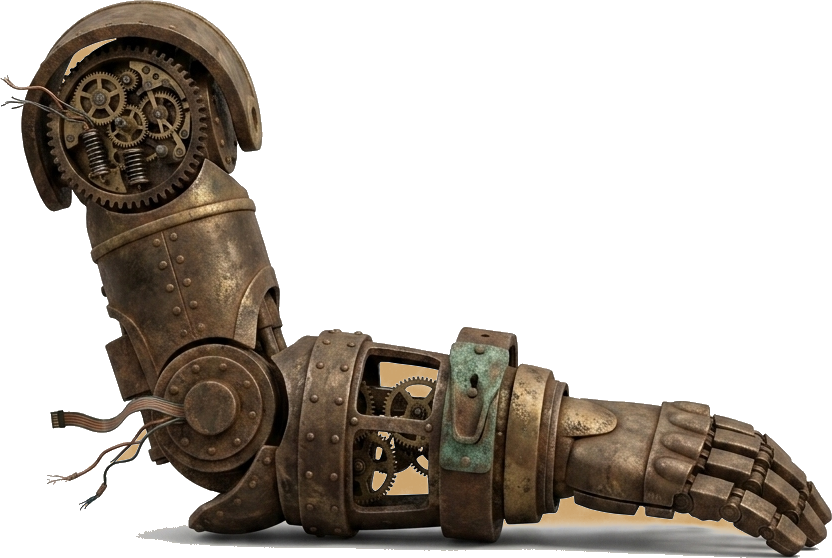
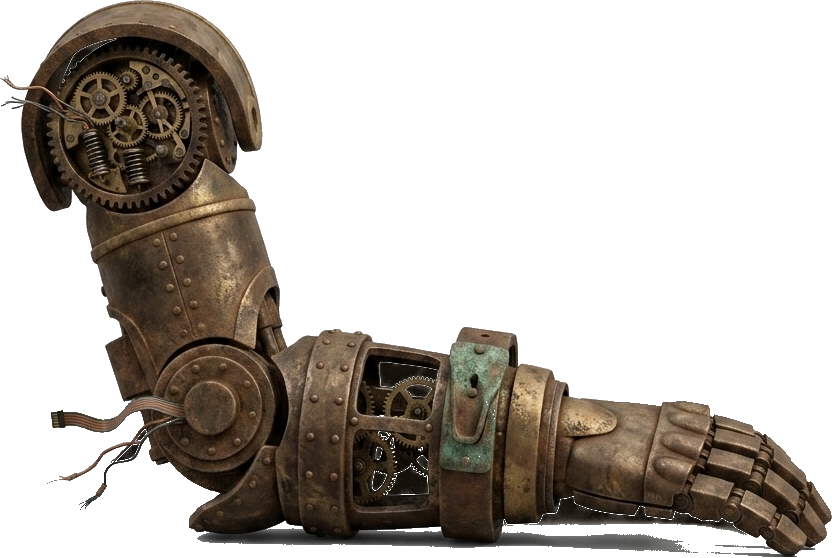
## Black Spots + Burn-Down + Alert Robot + Heist Timing Complete (all verified live) - White/tan spots now truly gone — bright speckles mapped to black on the rack robot and floor arm - Furnace blast burns down gradually: belly glow fades, rumble stops, and 9 embers rest on the floor flickering out 

diff --git a/frontend/src/components/scenes/AmbianceScene.jsx b/frontend/src/components/scenes/AmbianceScene.jsx
@@ -438,7 +438,7 @@ function useFurnaceCrackle(enabled) {
  * stream of fire, sparks and embers spews from his belly grate.
  * Desktop-only (he's hidden on mobile); `ff:furnace-blast` forces it. */
 function useFurnaceBlast(enabled) {
-  const [ph, setPh] = useState(0); // 0 idle, 1 gears grinding (glow surges), 2 fire spews
+  const [ph, setPh] = useState(0); // 0 idle, 1 gears grinding (glow surges), 2 fire spews, 3 burning down (embers cool on the floor)
   const witnessRef = useHeistWitness("furnace");
   useEffect(() => {
     if (!enabled) return undefined;
@@ -447,7 +447,13 @@ function useFurnaceBlast(enabled) {
     let timers = [];
     let pending;
     const schedule = (min, spread) => { pending = setTimeout(run, min + Math.random() * spread); };
-    const run = () => {
+    const run = (forced = false) => {
+      // HEIST TRAFFIC CONTROL: never start while fate is shuffling/revealing or
+      // another heist holds the floor (medallion heists scroll the page to the
+      // logo — colliding with a golem show means the user misses both).
+      if (!forced && (window.__ffFateBusy || Date.now() < (window.__ffHeistCooldownUntil || 0))) { schedule(25000, 20000); return; }
+      // Reserve the stage: blast runs 7.4s + a breather before the next act.
+      window.__ffHeistCooldownUntil = Math.max(window.__ffHeistCooldownUntil || 0, Date.now() + 20000);
       timers.forEach(clearTimeout); timers = [];
       setPh(1);
       playHeistSound("/golem-gears.mp3", 0.5);
@@ -455,10 +461,11 @@ function useFurnaceBlast(enabled) {
         setPh(2);
         playHeistSound("/golem-fire-blast.mp3", 0.55);
       }, 2000));
-      timers.push(setTimeout(() => { setPh(0); witnessRef.current(true); schedule(200000, 160000); }, 5200));
+      timers.push(setTimeout(() => setPh(3), 5200));            // fire burns down; embers glow on the floor
+      timers.push(setTimeout(() => { setPh(0); witnessRef.current(true); schedule(200000, 160000); }, 7400));
     };
     schedule(70000, 60000);
-    const force = () => { clearTimeout(pending); run(); };
+    const force = () => { clearTimeout(pending); run(true); };
     window.addEventListener("ff:furnace-blast", force);
     return () => { clearTimeout(pending); timers.forEach(clearTimeout); window.removeEventListener("ff:furnace-blast", force); };
   }, [enabled]);
@@ -478,7 +485,12 @@ function useGolemWake(enabled) {
     let timers = [];
     let pending;
     const schedule = (min, spread) => { pending = setTimeout(run, min + Math.random() * spread); };
-    const run = () => {
+    const run = (forced = false) => {
+      // HEIST TRAFFIC CONTROL: defer if fate is busy or another heist has the
+      // floor, and reserve the stage for the full 10.9s show + a breather so
+      // medallion heists can't scroll the page away mid-awakening.
+      if (!forced && (window.__ffFateBusy || Date.now() < (window.__ffHeistCooldownUntil || 0))) { schedule(25000, 20000); return; }
+      window.__ffHeistCooldownUntil = Math.max(window.__ffHeistCooldownUntil || 0, Date.now() + 25000);
       timers.forEach(clearTimeout); timers = [];
       setPh(1);                                                  // rumble + head raises, eyes ignite
       playHeistSound("/golem-wake-up.mp3", 0.5);
@@ -502,7 +514,7 @@ function useGolemWake(enabled) {
       timers.push(setTimeout(() => { setPh(0); witnessRef.current(true); schedule(180000, 150000); }, 10900));
     };
     schedule(45000, 40000);
-    const force = () => { clearTimeout(pending); run(); };
+    const force = () => { clearTimeout(pending); run(true); };
     window.addEventListener("ff:golem-wake", force);
     return () => { clearTimeout(pending); timers.forEach(clearTimeout); window.removeEventListener("ff:golem-wake", force); };
   }, [enabled]);
@@ -512,6 +524,8 @@ function useGolemWake(enabled) {
 export function AmbianceScene({ theme, cfg, heistEpoch = 0 }) {
   const golemWake = useGolemWake(!!cfg.golemRight);
   const blastPh = useFurnaceBlast(!!cfg.golemLeft);
+  // any golem event running → the strapped rack robot powers up in response
+  const workshopEvent = (golemWake >= 1 && golemWake <= 5) || blastPh >= 1;
   useFurnaceCrackle(!!cfg.golemLeft);
   const [mobile, setMobile] = useState(false);
   const [abducting, setAbducting] = useState(false);
@@ -729,10 +743,10 @@ export function AmbianceScene({ theme, cfg, heistEpoch = 0 }) {
         <div className="absolute bottom-0 left-[-10%] z-[4] hidden h-[72vh] sm:left-[-3%] sm:block sm:h-[78vh]" style={{ aspectRatio: "684 / 1222" }} data-testid="steam-golem-left">
           {/* soft ground shadow so the sleeping sentinel sits on the floor */}
           <div className="absolute left-1/2 -translate-x-1/2" style={{ bottom: "-0.6vh", width: "88%", height: "3.6vh", background: "radial-gradient(ellipse, rgba(0,0,0,0.7), rgba(0,0,0,0) 68%)" }} />
-          <img src={cfg.golemLeft} alt="" className="absolute inset-0 h-full w-full object-contain" style={{ filter: "drop-shadow(0 6px 10px rgba(0,0,0,0.55)) brightness(0.92)", animation: blastPh >= 1 ? "ffGolemRumble 0.5s linear infinite" : undefined }} />
+          <img src={cfg.golemLeft} alt="" className="absolute inset-0 h-full w-full object-contain" style={{ filter: "drop-shadow(0 6px 10px rgba(0,0,0,0.55)) brightness(0.92)", animation: blastPh >= 1 && blastPh < 3 ? "ffGolemRumble 0.5s linear infinite" : undefined }} />
           {/* FURNACE BLAST: glow surge while the gears grind, then fire spews */}
           {blastPh >= 1 && (
-            <div className="absolute" style={{ left: "52%", top: "36%", width: "29%", height: "16.5%" }} data-testid="furnace-blast-surge">
+            <div className="absolute" style={{ left: "52%", top: "36%", width: "29%", height: "16.5%", opacity: blastPh === 3 ? 0 : 1, transition: "opacity 1.4s ease-out" }} data-testid="furnace-blast-surge">
               <span className="absolute inset-0" style={{ borderRadius: "45%", background: "radial-gradient(ellipse at 50% 55%, rgba(255,175,60,0.75), rgba(255,110,25,0.4) 45%, rgba(200,60,10,0.15) 68%, transparent 85%)", mixBlendMode: "screen", filter: "blur(4px)", animation: "ffFurnaceSmolder 0.7s ease-in-out infinite" }} />
             </div>
           )}
@@ -775,6 +789,21 @@ export function AmbianceScene({ theme, cfg, heistEpoch = 0 }) {
                 { fx: "14vh", fy: "-8vh", d: 1.45, dl: 2.55, s: 0.9 }, { fx: "10vh", fy: "-24vh", d: 2.1, dl: 0.95, s: 0.65 },
               ].map((p, pi) => (
                 <span key={`fw-${pi}`} className="absolute rounded-full" style={{ left: "4%", top: "42%", width: `${0.85 * p.s}vh`, height: `${0.85 * p.s}vh`, background: "radial-gradient(circle, #FFF4CC, #FFB44A 55%, #D2601A 90%)", boxShadow: "0 0 7px 2px rgba(255,165,55,0.85)", "--fx": p.fx, "--fy": p.fy, animation: `ffEmberFw ${p.d}s linear ${p.dl}s infinite` }} data-testid="furnace-blast-firework" />
+              ))}
+            </div>
+          )}
+          {/* BURN-DOWN: the landed fire bits keep glowing on the floor for a
+              beat, flickering as they cool, then wink out one by one */}
+          {blastPh === 3 && (
+            <div className="absolute" style={{ left: "64%", top: "39.5%", width: "33%", height: "10%" }} data-testid="furnace-blast-embers">
+              {[
+                { bx: "7vh", d: 1.5, dl: 0, s: 1 }, { bx: "13vh", d: 1.9, dl: 0.15, s: 0.8 },
+                { bx: "19vh", d: 2.2, dl: 0.05, s: 1.05 }, { bx: "10vh", d: 1.7, dl: 0.3, s: 0.7 },
+                { bx: "24vh", d: 2.4, dl: 0.1, s: 0.9 }, { bx: "16vh", d: 2.0, dl: 0.4, s: 0.95 },
+                { bx: "21vh", d: 1.8, dl: 0.25, s: 0.75 }, { bx: "28vh", d: 2.3, dl: 0.2, s: 0.85 },
+                { bx: "31vh", d: 1.6, dl: 0.5, s: 0.65 },
+              ].map((p, pi) => (
+                <span key={`emb-${pi}`} className="absolute rounded-full" style={{ left: "5%", top: "48%", width: `${0.95 * p.s}vh`, height: `${0.95 * p.s}vh`, transform: `translate(${p.bx}, 43vh)`, background: "radial-gradient(circle, #FFD98A, #FF8A32 55%, #8A3410 90%)", boxShadow: "0 0 6px 2px rgba(255,130,40,0.6)", animation: `ffEmberDie ${p.d}s ease-in ${p.dl}s forwards` }} data-testid="furnace-ember-rest" />
               ))}
             </div>
           )}
@@ -915,9 +944,11 @@ export function AmbianceScene({ theme, cfg, heistEpoch = 0 }) {
             // the sprite's real bulb column on the right face
             { x: 70.9, y: 40, c: "#FFB03A", d: 2.4, dl: 0 }, { x: 70.9, y: 50.2, c: "#FF5540", d: 1.9, dl: 0.5 }, { x: 70.9, y: 59, c: "#FF8A3A", d: 2.1, dl: 1 }, { x: 70.9, y: 67.9, c: "#FF5540", d: 1.6, dl: 1.5 },
           ] },
-        { src: "/steam-robot-rack.png?v=492", ar: "558 / 742", cls: "left-1/2 -translate-x-1/2 h-[78vh]", tid: "steam-robot-rack",
+        { src: "/steam-robot-rack.png?v=494", ar: "558 / 742", cls: "left-1/2 -translate-x-1/2 h-[78vh]", tid: "steam-robot-rack",
           lamps: [{ x: 71.3, y: 29.4, c: "#FFB03A", d: 2.1, dl: 0.3 }, { x: 71.3, y: 33.1, c: "#FF7A30", d: 1.7, dl: 0.9 }],
           eye: { x: 31.5, y: 20 },
+          alert: "/steam-robot-rack-alert.png?v=494",
+          alertEyes: [{ x: 33.3, y: 15.4 }, { x: 39.7, y: 15.4 }],
           sparks: { x: 65, y: 39 } },
         { src: "/steam-alchemy-bench.png?v=491", ar: "966 / 765", cls: "left-[calc(50%+31vh)] h-[25.5vh]", tid: "steam-alchemy-bench",
           lamps: [{ x: 56.1, y: 38.2, c: "#FFB03A", d: 1.6, dl: 0 }, { x: 61.7, y: 39, c: "#FFB03A", d: 2.3, dl: 0.5 }, { x: 73.5, y: 41.6, c: "#FF5540", d: 1.9, dl: 1.1 }] },
@@ -925,12 +956,21 @@ export function AmbianceScene({ theme, cfg, heistEpoch = 0 }) {
         <div key={p.tid} className={`absolute bottom-[0.5vh] z-[3] hidden sm:block ${p.cls}`} style={{ aspectRatio: p.ar }} data-testid={p.tid}>
           <div className="absolute left-1/2 -translate-x-1/2" style={{ bottom: "-0.5vh", width: "90%", height: "2.6vh", background: "radial-gradient(ellipse, rgba(0,0,0,0.65), rgba(0,0,0,0) 68%)" }} />
           <img src={p.src} alt="" className="absolute inset-0 h-full w-full object-contain" style={{ filter: "drop-shadow(0 5px 8px rgba(0,0,0,0.5)) brightness(0.94)" }} />
+          {/* WORKSHOP EVENTS: while a golem event plays, the strapped robot
+              powers up — head straightens (alert pose cross-fade) and both
+              eye lenses hold a solid green glow until the event ends */}
+          {p.alert && (
+            <img src={p.alert} alt="" className="absolute inset-0 h-full w-full object-contain" data-testid="rack-alert-pose" style={{ filter: "drop-shadow(0 5px 8px rgba(0,0,0,0.5)) brightness(0.94)", opacity: workshopEvent ? 1 : 0, transition: "opacity 0.7s ease" }} />
+          )}
           {p.lamps.map((L, li) => (
             <span key={`lamp-${li}`} className="absolute rounded-full" style={{ left: `${L.x}%`, top: `${L.y}%`, width: "5%", aspectRatio: "1", background: `radial-gradient(circle, ${L.c}, transparent 70%)`, mixBlendMode: "screen", filter: "blur(1px)", animation: `ffLampBlink ${L.d}s steps(2, jump-none) ${L.dl}s infinite` }} />
           ))}
-          {p.eye && (
+          {p.eye && !(p.alert && workshopEvent) && (
             <span className="absolute rounded-full" data-testid="rack-robot-eye" style={{ left: `${p.eye.x}%`, top: `${p.eye.y}%`, width: "4.5%", aspectRatio: "1", background: "radial-gradient(circle, rgba(140,255,180,0.95), rgba(80,220,140,0.4) 55%, transparent 75%)", mixBlendMode: "screen", filter: "blur(0.5px)", boxShadow: "0 0 8px 2px rgba(90,230,150,0.5)", animation: "ffEyeFlutter 6.5s linear infinite" }} />
           )}
+          {p.alertEyes && workshopEvent && p.alertEyes.map((e, ei) => (
+            <span key={`alert-eye-${ei}`} className="absolute rounded-full" data-testid="rack-alert-eye" style={{ left: `${e.x}%`, top: `${e.y}%`, width: "4.5%", aspectRatio: "1", background: "radial-gradient(circle, rgba(150,255,190,1), rgba(80,225,145,0.5) 55%, transparent 75%)", mixBlendMode: "screen", filter: "blur(0.5px)", boxShadow: "0 0 10px 3px rgba(90,235,155,0.65)" }} />
+          ))}
           {/* WELD SPARKS: intermittent bursts spit from the open shoulder socket
               where the robot's unfinished arm is missing */}
           {p.sparks && (
@@ -947,7 +987,7 @@ export function AmbianceScene({ theme, cfg, heistEpoch = 0 }) {
       {cfg.golemLeft && (
         <div className="absolute bottom-[0.6vh] left-[calc(50%+8vh)] z-[3] hidden sm:block" style={{ width: "22vh", aspectRatio: "832 / 558" }} data-testid="steam-arm-floor">
           <div className="absolute left-1/2 -translate-x-1/2" style={{ bottom: "-0.4vh", width: "86%", height: "1.8vh", background: "radial-gradient(ellipse, rgba(0,0,0,0.6), rgba(0,0,0,0) 68%)" }} />
-          <img src="/steam-arm-unfinished.png?v=493" alt="" className="absolute inset-0 h-full w-full object-contain" style={{ transform: "scaleX(-1)", filter: "drop-shadow(0 3px 5px rgba(0,0,0,0.5)) brightness(0.92)" }} />
+          <img src="/steam-arm-unfinished.png?v=494" alt="" className="absolute inset-0 h-full w-full object-contain" style={{ transform: "scaleX(-1)", filter: "drop-shadow(0 3px 5px rgba(0,0,0,0.5)) brightness(0.92)" }} />
         </div>
       )}
       {cfg.roofCables && STEAM_CABLES.map((c, i) => (

diff --git a/frontend/public/index.html b/frontend/public/index.html
@@ -60,7 +60,7 @@
         <title>Fork·Fate — Restaurant Roulette</title>
         <script>window.addEventListener("error",function(e){if(e.error instanceof DOMException&&e.error.name==="DataCloneError"&&e.message&&e.message.includes("PerformanceServerTiming")){e.stopImmediatePropagation();e.preventDefault()}},true);</script>
         <script>(function(){try{if('serviceWorker' in navigator){window.addEventListener('load',function(){navigator.serviceWorker.register('/service-worker.js',{scope:'/'}).catch(function(){});});}}catch(e){}})();</script>
-        <script>(function(){try{var FF_BUILD="2026.06-493";var prev=localStorage.getItem("ff_build");if(prev!==FF_BUILD){localStorage.setItem("ff_build",FF_BUILD);if(window.caches&&caches.keys){caches.keys().then(function(keys){keys.forEach(function(k){caches.delete(k);});});}if(prev&&!sessionStorage.getItem("ff_build_reloaded")){sessionStorage.setItem("ff_build_reloaded","1");location.reload(true);}}}catch(e){}})();</script>
+        <script>(function(){try{var FF_BUILD="2026.06-495";var prev=localStorage.getItem("ff_build");if(prev!==FF_BUILD){localStorage.setItem("ff_build",FF_BUILD);if(window.caches&&caches.keys){caches.keys().then(function(keys){keys.forEach(function(k){caches.delete(k);});});}if(prev&&!sessionStorage.getItem("ff_build_reloaded")){sessionStorage.setItem("ff_build_reloaded","1");location.reload(true);}}}catch(e){}})();</script>
         <script src="https://assets.emergent.sh/scripts/emergent-main.js"></script>
         <!-- Google Analytics 4 -->
         <script async src="https://www.googletagmanager.com/gtag/js?id=G-4E739B8J0H"></script>

diff --git a/frontend/src/index.css b/frontend/src/index.css
@@ -2766,3 +2766,14 @@ body.ff-badge-open .ff-theme-scene * {
   45% { opacity: 1; transform: translate(calc(var(--fx) * 0.55), var(--fy)); }
   100% { opacity: 0; transform: translate(var(--fx), calc(var(--fy) * -0.45)); }
 }
+
+/* Cooling embers resting on the floor after the furnace blast: they flicker
+   irregularly as they cool, then die out (staggered via animation-delay). */
+@keyframes ffEmberDie {
+  0% { opacity: 0.95; }
+  20% { opacity: 0.5; }
+  35% { opacity: 0.85; }
+  55% { opacity: 0.35; }
+  70% { opacity: 0.65; }
+  100% { opacity: 0; }
+}

diff --git a/scripts/gen_rack_headup.py b/scripts/gen_rack_headup.py
@@ -1,0 +1,47 @@
+"""Variant of the rack robot with his head STRAIGHTENED (he powers up and looks
+forward during workshop events). Everything else must stay identical so the
+two sprites can cross-fade in place."""
+import asyncio
+import base64
+import io
+import os
+
+from dotenv import load_dotenv
+from PIL import Image
+
+load_dotenv("/app/backend/.env")
+from emergentintegrations.llm.chat import LlmChat, UserMessage, ImageContent
+
+# send the current sprite composited on white so the model sees the exact frame
+im = Image.open("/app/frontend/public/steam-robot-rack.png").convert("RGBA")
+bg = Image.new("RGBA", im.size, (255, 255, 255, 255))
+bg.alpha_composite(im)
+buf = io.BytesIO()
+bg.convert("RGB").save(buf, format="PNG")
+REF = base64.b64encode(buf.getvalue()).decode("utf-8")
+
+PROMPT = (
+    "Edit this image of a steampunk automaton robot strapped upright to an assembly rack. "
+    "THE ONLY CHANGE: the robot's head is currently slumped/tilted down to the side — raise and "
+    "STRAIGHTEN the head so it faces directly forward, upright and alert, with both round eye lenses "
+    "level and looking straight ahead. "
+    "Keep absolutely everything else pixel-identical: same body pose, same straps, same rack frame, "
+    "same pulley and chains, same control panel, same tool tray, same missing right arm with exposed "
+    "gears, same materials, lighting, scale and position in the frame. "
+    "Plain solid white background, no text."
+)
+
+
+async def main() -> None:
+    chat = LlmChat(api_key=os.getenv("EMERGENT_LLM_KEY"), session_id="rack-head-up", system_message="You are an expert sprite artist.")
+    chat.with_model("gemini", "gemini-3.1-flash-image-preview").with_params(modalities=["image", "text"])
+    text, images = await chat.send_message_multimodal_response(UserMessage(text=PROMPT, file_contents=[ImageContent(REF)]))
+    if not images:
+        print(f"NO IMAGE ({(text or '')[:100]})")
+        return
+    with open("/app/scripts/rack_headup_raw.png", "wb") as f:
+        f.write(base64.b64decode(images[0]["data"]))
+    print("saved /app/scripts/rack_headup_raw.png")
+
+
+asyncio.run(main())

diff --git a/memory/CHANGELOG.md b/memory/CHANGELOG.md
@@ -838,3 +838,20 @@ ROADMAP idea (user): future categories beyond food/drinks/bars/desserts -> antiq
   launch up along --fx*0.55/--fy, crest, rain down) from the grate.
 - Awakening: stomp held 1s longer (ph4 5600->6600, ph5 7700, ph6 9300, end
   10900) and step-back sound moved to ph4 start (leg-return) per user.
+
+## 2026-02 (fork) — Black spot fix, burn-down, alert robot, heist traffic control (FF_BUILD 494-495)
+- WHITE/TAN SPOTS: rack restored from git (6ae036c) + arm re-keyed from raw;
+  near-white px now mapped to DARK (22,16,10) per user ("pixels should be
+  black"); arm's painted gray floor shadow cleared. rack/arm ?v=494.
+- FURNACE BURN-DOWN: new blastPh 3 (5200-7400ms) — surge fades 1.4s, rumble
+  stops, 9 resting embers (furnace-ember-rest) flicker + die on the floor line
+  (translate(bx, 43vh), ffEmberDie staggered). Witness records at 7400.
+- ALERT ROBOT: steam-robot-rack-alert.png (Gemini head-straight variant,
+  aligned to 558x742). During ANY golem event (workshopEvent = wake 1-5 or
+  blast >= 1) the rack robot cross-fades to head-straight and BOTH lenses hold
+  solid green (rack-alert-eye at 33.3/15.4 + 39.7/15.4); flutter hides.
+  NOTE: config keys alert/alertEyes were silently lost once — re-applied.
+- HEIST TRAFFIC CONTROL: golem wake/blast run() now bail+reschedule (25-45s)
+  when __ffFateBusy or __ffHeistCooldownUntil holds, and reserve the cooldown
+  (25s wake / 20s blast) so medallion heists can't scroll the page mid-show.
+  Forced dev events (ff:golem-wake / ff:furnace-blast) bypass the guard.
